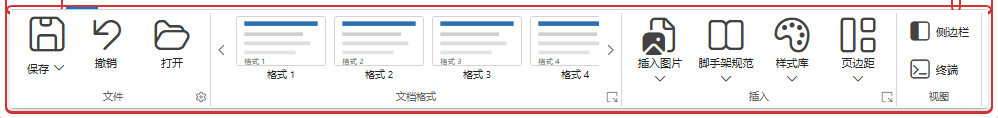
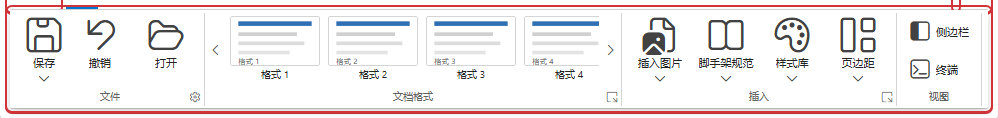
fix(ribbon): 对齐分割按钮与相邻下拉按钮的各行元素
- 垂直分割按钮的图标行、标题行与下拉箭头行分别与相邻整高下拉按钮对应行水平对齐。
- 分割按钮上半部分固定为图标区高度，下半部分将标题与箭头纵向排列，宽度仍按内容自适应。
- 分格线改为内阴影绘制，避免边框占用高度影响标题与箭头的对齐；悬停高亮行为保持不变。
- 更新单元测试与文档浏览器对齐断言，刷新功能区部件图鉴截图与文档说明。

diff --git a/src/vscode-ribbon/vscode-ribbon.test.ts b/src/vscode-ribbon/vscode-ribbon.test.ts
@@ -805,6 +805,12 @@ describe('vscode-ribbon', () => {
                 icon: 'save',
                 menu: {items: [{command: 'save-as', title: '另存为'}]},
               },
+              {
+                type: 'dropdown',
+                title: '板模板',
+                icon: 'symbol-class',
+                menu: {items: [{command: 'slab', title: '盘扣式'}]},
+              },
             ],
           },
         ],
@@ -830,9 +836,7 @@ describe('vscode-ribbon', () => {
     const transparent = (color: string) =>
       color === 'transparent' || /rgba\(0, 0, 0, 0\)/.test(color);
     // 未悬停时分格线与组合外边框均不显示。
-    expect(transparent(getComputedStyle(trigger).borderTopColor)).to.equal(
-      true
-    );
+    expect(transparent(getComputedStyle(trigger).boxShadow)).to.equal(true);
     expect(getComputedStyle(split).outlineStyle).to.equal('none');
     expect(transparent(getComputedStyle(primary).backgroundColor)).to.equal(
       true
@@ -847,12 +851,35 @@ describe('vscode-ribbon', () => {
       '保存'
     );
     expect(trigger.querySelector('.ribbon-chevron')).to.not.equal(null);
-    const primaryRect = primary.getBoundingClientRect();
-    const triggerRect = trigger.getBoundingClientRect();
     const splitRect = split.getBoundingClientRect();
-    expect(Math.abs(primaryRect.height - triggerRect.height)).to.be.at.most(2);
     expect(splitRect.width).to.be.lessThan(64);
     expect(splitRect.width).to.be.greaterThan(30);
+    // 图标、标题与箭头分别与相邻整高下拉按钮的对应行水平对齐。
+    const dropdown = el.shadowRoot!.querySelector<HTMLElement>(
+      '.ribbon-item.is-dropdown.ribbon-item-vertical'
+    )!;
+    const rowDelta = (left: Element | null, right: Element | null) =>
+      Math.abs(
+        left!.getBoundingClientRect().top - right!.getBoundingClientRect().top
+      );
+    expect(
+      rowDelta(
+        primary.querySelector('.ribbon-icon'),
+        dropdown.querySelector('.ribbon-icon')
+      )
+    ).to.be.at.most(1);
+    expect(
+      rowDelta(
+        trigger.querySelector('.ribbon-label-text'),
+        dropdown.querySelector('.ribbon-label-text')
+      )
+    ).to.be.at.most(1);
+    expect(
+      rowDelta(
+        trigger.querySelector('.ribbon-chevron'),
+        dropdown.querySelector('.ribbon-chevron')
+      )
+    ).to.be.at.most(1);
     primary.click();
     await el.updateComplete;
     expect(command).to.equal('save');

diff --git a/src/vscode-ribbon/vscode-ribbon.styles.ts b/src/vscode-ribbon/vscode-ribbon.styles.ts
@@ -573,14 +573,20 @@ const styles: CSSResultGroup = [
       border-left: 1px solid transparent;
     }
 
-    /* Office 风格垂直分割按钮：上半部分只放图标，下半部分是“标题 + 下拉箭头”。 */
+    /*
+     * Office 风格垂直分割按钮：图标、标题与下拉箭头分别与相邻整高
+     * 下拉按钮的对应行水平对齐；上半部分只放图标，下半部分是
+     * “标题 + 下拉箭头”按钮。
+     */
     .ribbon-split.ribbon-item-vertical {
       width: max-content;
       min-width: 0;
+      padding: 0;
     }
 
     .ribbon-split.ribbon-item-vertical .ribbon-item-primary {
-      flex: 1 1 0;
+      flex: 0 0 42px;
+      box-sizing: border-box;
       flex-direction: row;
       align-items: center;
       justify-content: center;
@@ -589,19 +595,22 @@ const styles: CSSResultGroup = [
     }
 
     .ribbon-split.ribbon-item-vertical .ribbon-split-trigger {
-      flex: 1 1 0;
+      flex: 1 1 auto;
+      box-sizing: border-box;
       min-height: 0;
       padding: 0 3px;
+      border-top: 0;
+      box-shadow: inset 0 1px 0 transparent;
     }
 
     .ribbon-split.ribbon-item-vertical
       .ribbon-split-trigger
       .ribbon-label.has-chevron {
-      flex-direction: row;
+      flex-direction: column;
       align-items: center;
-      justify-content: center;
-      width: auto;
-      gap: 2px;
+      justify-content: flex-start;
+      width: 100%;
+      gap: 1px;
     }
 
     .ribbon-split.ribbon-item-vertical
@@ -648,6 +657,18 @@ const styles: CSSResultGroup = [
 
     .ribbon-split.ribbon-item-icon-only .ribbon-item-primary .ribbon-label {
       display: none;
+    }
+
+    /* 垂直分割按钮使用内阴影绘制分格线，避免边框占用标题与箭头的对齐高度。 */
+    .ribbon-split.ribbon-item-vertical:has(
+        .ribbon-item-primary:hover:not(:disabled)
+      )
+      .ribbon-split-trigger,
+    .ribbon-split.ribbon-item-vertical:has(
+        .ribbon-split-trigger:hover:not(:disabled)
+      )
+      .ribbon-split-trigger {
+      box-shadow: inset 0 1px 0 var(--vscode-focusBorder, #0078d4);
     }
 
     /* 展开菜单时只有触发区保持激活背景，主命令区域不受影响。 */
@@ -751,7 +772,10 @@ const styles: CSSResultGroup = [
     }
 
     .ribbon-chevron {
+      display: inline-block;
       flex: none;
+      width: 16px;
+      height: 16px;
       font-size: 12px;
       line-height: 12px;
     }

diff --git a/docs/ribbon-parts.md b/docs/ribbon-parts.md
@@ -226,7 +226,7 @@ items: [
 
 <img src="/ribbon-parts/item-primary.png" alt="分割按钮主命令部件截图">
 
-垂直分割按钮的上方主区域，只显示图标，点击执行主命令；上下两半高度约相等，悬停时只有该区域背景激活，同时组合按钮外边框与分格线一起高亮。
+垂直分割按钮的上方主区域，只显示图标并与相邻整高下拉按钮的图标行水平对齐；点击执行主命令，悬停时只有该区域背景激活，同时组合按钮外边框与分格线一起高亮。
 
 ```js
 {
@@ -242,7 +242,7 @@ items: [
 
 <img src="/ribbon-parts/item-trigger.png" alt="分割按钮触发区部件截图">
 
-垂直分割按钮的下方触发区，把标题与下拉箭头合并为一个按钮，点击展开菜单而不执行主命令；悬停时只有该区域背景激活，并同步高亮组合边框与分格线。
+垂直分割按钮的下方触发区，把标题与下拉箭头合并为一个按钮，标题行与箭头行分别与相邻整高下拉按钮对应行水平对齐；点击展开菜单而不执行主命令，悬停时只有该区域背景激活，并同步高亮组合边框与分格线。
 
 ```js
 {
